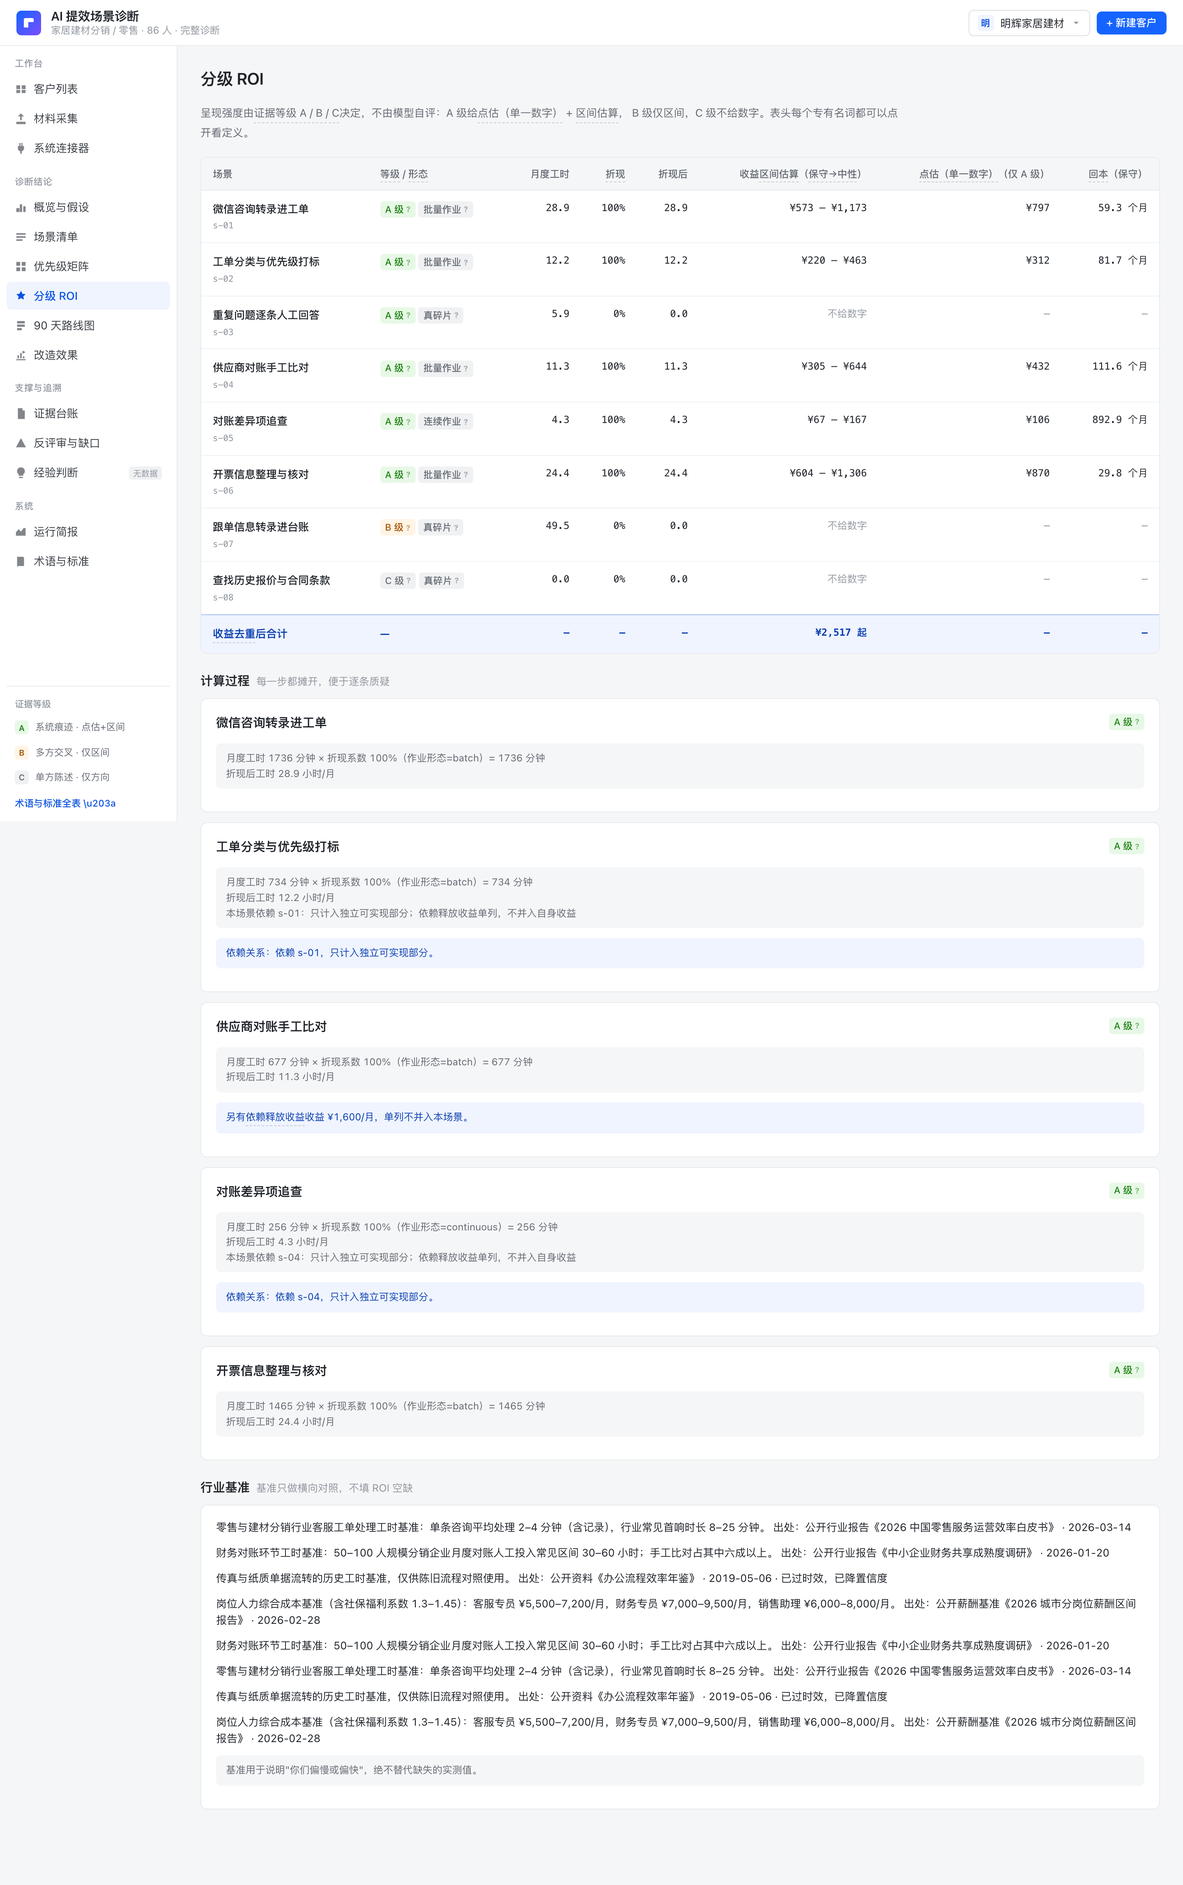
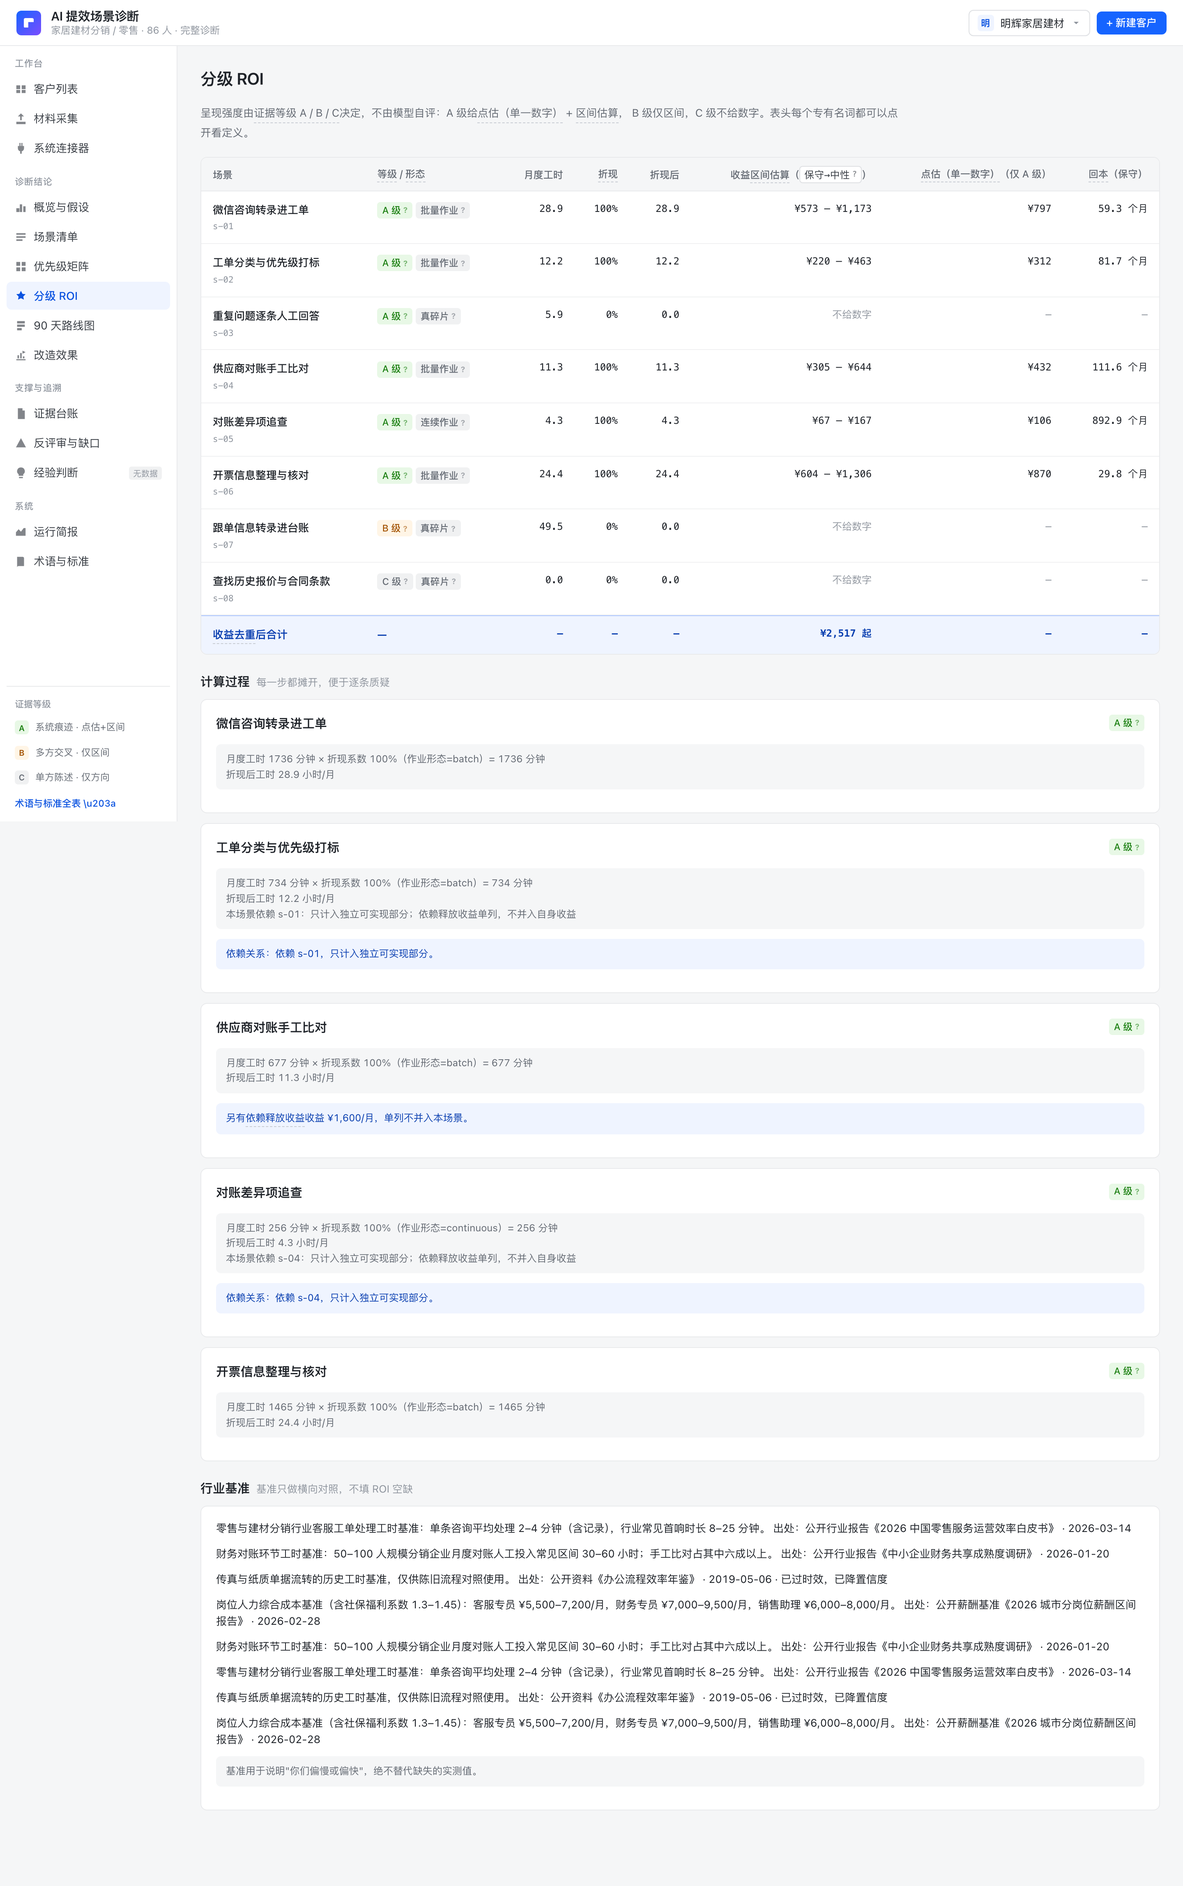
feat: 补上遗漏的两张分级标准 —— ROI 三档与反评审严重度
上一轮做了四张标准表，回头把界面上所有"带档位的东西"过了一遍，
发现还有两处只给档位、不给标准：

- **ROI 三档**：「保守 / 中性 / 乐观」不说明差在哪，读者会以为是
  三个人拍的三个数。实际差别只有一项——假设 AI 之外的配套改进带来
  多少额外增益（×1.0 / ×1.15 / ×1.35）。表里写明默认采用保守档下限，
  且乐观档只在 A 级证据下出现
- **反评审严重度**：「严重度 高」如果不说明该怎么办，等于只是吓人。
  三档各自写明「什么情况算这一档」与「该怎么办」，判定依据是
  证据类型的固有局限，不是模型的主观感受

接入点：严重度徽标、ROI 表头的「保守→中性」都可点开；
参考页从四张标准表扩到六张。

单一真值：三档系数从 roi.py 的 uplift 常量取、严重度档位从
agents._SEVERITIES 取，都有测试断言与术语表一致。
连同已有的七维权重（feasibility.DIMENSIONS），三处都不许在术语表里
另写一份数字——否则改了实现、界面继续显示旧值就是在骗人。

验证：518 个 pytest 全绿、黄金集 12/12；
浏览器实测新增 12 项（两张表可点开 / 当前档高亮 / 参考页六张 /
系数确实来自后端）全通过；既有四套浏览器用例 29 + 17 + 15 + 8 项回归全通过。

diff --git a/web/app.js b/web/app.js
@@ -98,6 +98,8 @@ async function loadGlossary() {
       workForm: d.work_form_scale,
       difficulty: d.difficulty_scale,
       delivery: d.delivery_scale,
+      tier: d.tier_scale,
+      severity: d.severity_scale,
     };
     glossary.loaded = true;
   } catch (e) {
@@ -291,6 +293,42 @@ function openScalePop(anchor, kind, key) {
         <thead><tr><th>形态 / 前提</th><th>包含内容</th></tr></thead>
         <tbody>${rows}</tbody>
       </table>
+      <button class="pop-more" data-goto-glossary>全部术语与分级标准 \u203a</button>`);
+    return;
+  }
+
+  if (kind === "tier") {
+    const rows = s.tier.map((x) => `
+      <tr class="${x.tier === key ? "is-now" : ""}">
+        <td><b>${esc(x.tier)}</b></td>
+        <td>${esc(x.criteria)}</td>
+      </tr>`).join("");
+    openPop(anchor, "ROI 三档口径差在哪", `
+      <p class="pop-plain">三档不是三个人拍的三个数。差别只有一项：假设 AI 之外的配套改进带来多少额外增益。</p>
+      <table class="scale-tbl">
+        <thead><tr><th>档位</th><th>判定口径</th></tr></thead>
+        <tbody>${rows}</tbody>
+      </table>
+      <p class="pop-eg"><b>报告采用哪一档</b>默认用保守档的下限——宁可少说，不要让客户落地后觉得被骗。</p>
+      <button class="pop-more" data-goto-glossary>全部术语与分级标准 \u203a</button>`);
+    return;
+  }
+
+  if (kind === "severity") {
+    const now = s.severity.find((x) => x.level === key);
+    const rows = s.severity.map((x) => `
+      <tr class="${x.level === key ? "is-now" : ""}">
+        <td><b>${esc(x.level)}</b></td>
+        <td>${esc(x.criteria)}</td>
+        <td>${esc(x.action)}</td>
+      </tr>`).join("");
+    openPop(anchor, "反评审严重度的判定标准", `
+      <p class="pop-plain">严重度按证据类型的固有局限判定，不是模型的主观感受。</p>
+      <table class="scale-tbl">
+        <thead><tr><th>档</th><th>什么情况算这一档</th><th>该怎么办</th></tr></thead>
+        <tbody>${rows}</tbody>
+      </table>
+      ${now ? `<p class="pop-eg"><b>「${esc(now.level)}」的应对</b>${esc(now.action)}</p>` : ""}
       <button class="pop-more" data-goto-glossary>全部术语与分级标准 \u203a</button>`);
   }
 }
@@ -573,7 +611,9 @@ async function viewRoi() {
             <th style="text-align:right">月度工时</th>
             <th style="text-align:right">${term("折现")}</th>
             <th style="text-align:right">折现后</th>
-            <th style="text-align:right">收益${term("区间")}（${term("保守档", "保守→中性")}）</th>
+            <th style="text-align:right">收益${term("区间")}（<button class="numref" data-scale="tier"
+              data-key="保守" aria-expanded="false"
+              aria-label="查看 ROI 三档口径的差别">保守→中性 <i class="bdg-q" aria-hidden="true">?</i></button>）</th>
             <th style="text-align:right">${term("点估")}（仅 A 级）</th>
             <th style="text-align:right">${term("回本周期", "回本")}（保守）</th>
           </tr></thead>
@@ -719,7 +759,9 @@ async function viewReview() {
         <div class="card">
           <div class="item-h">
             <span class="item-id">${esc(i.card_id)}</span>
-            <span class="bdg ${SEV[i.severity] || "bdg-n"}">严重度 ${esc(i.severity)}</span>
+            <button class="bdg ${SEV[i.severity] || "bdg-n"} bdg-btn" data-scale="severity"
+              data-key="${esc(i.severity)}" aria-expanded="false"
+              aria-label="查看严重度 ${esc(i.severity)} 的判定标准与应对动作">严重度 ${esc(i.severity)} <i class="bdg-q" aria-hidden="true">?</i></button>
           </div>
           <p style="margin:0 0 10px;font-size:13.5px;line-height:1.7">${esc(i.rebuttal)}</p>
           <p class="hint">处理：${esc(i.resolution)}</p>
@@ -834,6 +876,21 @@ async function viewGlossary() {
       <td class="dim">${esc(x.excludes) || "\u2014"}</td>
     </tr>`).join("");
 
+  const tierRows = s.tier.map((x) => `
+    <tr>
+      <td><b>${esc(x.tier)}</b></td>
+      <td class="r">×${x.uplift}</td>
+      <td>${esc(x.criteria)}</td>
+      <td class="dim">${esc(x.why)}</td>
+    </tr>`).join("");
+
+  const sevRows = s.severity.map((x) => `
+    <tr>
+      <td><b>${esc(x.level)}</b></td>
+      <td>${esc(x.criteria)}</td>
+      <td>${esc(x.action)}</td>
+    </tr>`).join("");
+
   return `
     ${pageHead("术语与标准", "报告里出现的每个专有名词都能在这里查到判定标准。界面上带虚线下划线的词可以直接点开看解释")}
 
@@ -848,8 +905,8 @@ async function viewGlossary() {
 
     <div class="sec">
       <div class="sec-h">
-        <h3>四张分级标准表</h3>
-        <p>报告里所有等级、分数、形态的判定口径都在这里，先看这四张表再看报告会顺很多</p>
+        <h3>六张分级标准表</h3>
+        <p>报告里所有等级、分数、档位的判定口径都在这里，先看这六张表再看报告会顺很多</p>
       </div>
 
       <div class="card">
@@ -896,6 +953,30 @@ async function viewGlossary() {
         <div class="tbl-scroll"><table class="scale-tbl scale-wide">
           <thead><tr><th>形态</th><th>前提</th><th>包含</th><th>不包含</th></tr></thead>
           <tbody>${delRows}</tbody>
+        </table></div>
+      </div>
+
+      <div class="card">
+        <div class="card-h">
+          <h3>五、ROI 三档口径</h3>
+          <p>三档不是三个人拍的三个数，差别只有一项：假设配套改进带来多少额外增益</p>
+        </div>
+        <div class="tbl-scroll"><table class="scale-tbl scale-wide">
+          <thead><tr><th>档位</th><th style="text-align:right">系数</th><th>判定口径</th><th>为什么这么定</th></tr></thead>
+          <tbody>${tierRows}</tbody>
+        </table></div>
+        <p class="hint hint-warn">报告默认用保守档的下限。乐观档只在 A 级证据下出现——
+        证据不硬时给乐观档，等于鼓励客户按最好情况做预算。</p>
+      </div>
+
+      <div class="card">
+        <div class="card-h">
+          <h3>六、反评审严重度</h3>
+          <p>按证据类型的固有局限判定，不是模型的主观感受</p>
+        </div>
+        <div class="tbl-scroll"><table class="scale-tbl scale-wide">
+          <thead><tr><th>档</th><th>什么情况算这一档</th><th>该怎么办</th></tr></thead>
+          <tbody>${sevRows}</tbody>
         </table></div>
       </div>
     </div>

diff --git a/src/aiea/glossary.py b/src/aiea/glossary.py
@@ -355,6 +355,60 @@ def difficulty_scale() -> dict[str, Any]:
     }
 
 
+def tier_scale() -> list[dict[str, Any]]:
+    """ROI 三档口径。系数从 roi.py 取，不在这里另写一份数字。
+
+    「保守 / 中性 / 乐观」如果不说明差在哪，读者会以为是三个人拍的三个数。
+    实际差别只有一项：假设 AI 之外的配套改进带来多少额外效率增益。
+    """
+    from .roi import _NEUTRAL_UPLIFT, _OPTIMISTIC_UPLIFT
+
+    return [
+        {
+            "tier": "保守",
+            "uplift": 1.0,
+            "criteria": "只计已验证的直接省时，不假设任何额外增益",
+            "why": "报告默认用这一档的下限——宁可少说，不要让客户落地后觉得被骗",
+        },
+        {
+            "tier": "中性",
+            "uplift": _NEUTRAL_UPLIFT,
+            "criteria": f"叠加 {round((_NEUTRAL_UPLIFT - 1) * 100)}% 的配套效率增益（流程顺带理顺、返工减少）",
+            "why": "改造很少只带来单点省时，但这部分增益无法事前核实，因此单列一档",
+        },
+        {
+            "tier": "乐观",
+            "uplift": _OPTIMISTIC_UPLIFT,
+            "criteria": f"叠加 {round((_OPTIMISTIC_UPLIFT - 1) * 100)}% 增益；仅 A 级证据才给这一档",
+            "why": "证据不硬时给乐观档等于鼓励客户按最好情况做预算，所以 B/C 级不出这一档",
+        },
+    ]
+
+
+def severity_scale() -> list[dict[str, Any]]:
+    """反评审严重度。判定依据是证据类型的固有局限，不是模型的主观感受。"""
+    return [
+        {
+            "level": "高",
+            "criteria": "结论所依赖的证据类型本身不足以支撑量化（B 级自述类、C 级无痕迹）",
+            "action": "落地前必须先补数据或先解决留痕，不宜据此安排投入",
+            "color": "danger",
+        },
+        {
+            "level": "中",
+            "criteria": "证据可用但推算方式有系统性偏差（如时间戳间隔含思考与等待，工时会偏高）",
+            "action": "可以推进，但要用一小批真实数据实测后回填修正",
+            "color": "warning",
+        },
+        {
+            "level": "低",
+            "criteria": "仅影响精度，不动摇结论方向",
+            "action": "记录备查即可，不阻塞落地",
+            "color": "neutral",
+        },
+    ]
+
+
 def delivery_scale() -> list[dict[str, Any]]:
     """交付形态：能拿到什么粒度的数据，就出什么形态的交付物。"""
     return [

diff --git a/tests/test_glossary.py b/tests/test_glossary.py
@@ -161,3 +161,47 @@ def test_grouped_terms_shape_for_frontend():
         assert g["group"] and g["intro"] and g["terms"]
         for t in g["terms"]:
             assert t["key"] and t["label"] and t["plain"] and t["why"]
+
+
+# ---------------------------- ROI 三档与严重度 ----------------------------
+def test_tier_scale_explains_what_differs_between_tiers():
+    """「保守/中性/乐观」不说明差在哪，读者会以为是三个人拍的三个数。"""
+    from aiea.glossary import tier_scale
+
+    scale = tier_scale()
+    assert [s["tier"] for s in scale] == ["保守", "中性", "乐观"]
+    for s in scale:
+        assert s["criteria"], f"{s['tier']} 档未写明判定口径"
+        assert s["why"], f"{s['tier']} 档未写明为什么这么定"
+    assert scale[0]["uplift"] == 1.0, "保守档不得叠加任何额外增益"
+    # 乐观档必须写明证据门槛，否则客户会拿它做预算
+    assert "A" in scale[2]["criteria"]
+
+
+def test_tier_uplifts_match_roi_module():
+    """系数只能有一处真值。术语表另写一份，改了 roi.py 界面就在骗人。"""
+    from aiea.glossary import tier_scale
+    from aiea.roi import _NEUTRAL_UPLIFT, _OPTIMISTIC_UPLIFT
+
+    scale = {s["tier"]: s for s in tier_scale()}
+    assert scale["中性"]["uplift"] == _NEUTRAL_UPLIFT
+    assert scale["乐观"]["uplift"] == _OPTIMISTIC_UPLIFT
+
+
+def test_severity_scale_states_criteria_and_action():
+    """「严重度 高」如果不说明该怎么办，等于只是吓人。"""
+    from aiea.glossary import severity_scale
+
+    scale = severity_scale()
+    assert [s["level"] for s in scale] == ["高", "中", "低"]
+    for s in scale:
+        assert s["criteria"], f"严重度 {s['level']} 未写明判定标准"
+        assert s["action"], f"严重度 {s['level']} 未写明应对动作"
+
+
+def test_severity_levels_match_agents_module():
+    """界面上的档位必须与反评审实际会产出的档位一致。"""
+    from aiea.agents import _SEVERITIES
+    from aiea.glossary import severity_scale
+
+    assert {s["level"] for s in severity_scale()} == set(_SEVERITIES)

diff --git a/tests/test_api_glossary.py b/tests/test_api_glossary.py
@@ -73,3 +73,18 @@ def test_glossary_exposes_grouped_terms(app):
     assert len(listed) == len(body["terms"]), "分组里的词数与术语总数不一致，有词漏出参考页"
     for g in body["groups"]:
         assert g["group"] and g["intro"] and g["terms"]
+
+
+def test_glossary_exposes_tier_and_severity_scales(app):
+    """ROI 三档与反评审严重度也是分级，判定标准同样要随接口下发。"""
+    body = app.get("/api/glossary").json()
+
+    tiers = body["tier_scale"]
+    assert [t["tier"] for t in tiers] == ["保守", "中性", "乐观"]
+    for t in tiers:
+        assert t["criteria"] and t["why"]
+
+    sev = body["severity_scale"]
+    assert [s["level"] for s in sev] == ["高", "中", "低"]
+    for s in sev:
+        assert s["criteria"] and s["action"], "严重度必须同时说明判定标准与应对动作"

diff --git a/src/aiea/api.py b/src/aiea/api.py
@@ -36,6 +36,8 @@ from .glossary import (
     explain,
     grade_scale,
     grouped_terms,
+    severity_scale,
+    tier_scale,
     work_form_scale,
 )
 from .intake import EVIDENCE_ROLES, list_materials, save_material
@@ -529,6 +531,8 @@ def create_app(*, root: Path | str | None = None, use_llm: bool = False) -> Fast
             "work_form_scale": work_form_scale(),
             "difficulty_scale": difficulty_scale(),
             "delivery_scale": delivery_scale(),
+            "tier_scale": tier_scale(),
+            "severity_scale": severity_scale(),
             "note": "报告里出现的每个专有名词都能在这里查到，包含判定标准与为什么值得看。",
         }
 

diff --git a/README.md b/README.md
@@ -71,7 +71,7 @@ PYTHONPATH=src .venv/bin/python -m aiea.evals     # 冻结黄金集 12 例
 | 07 反评审与缺口 | 独立视角的最强反驳 + 3 项未获取材料及其影响 |
 | 附 经验判断 | 物理隔离的专家判断区，按设计不含任何金额 |
 | 系 运行简报 | 内部指标翻译成人话；注入拦截计数；反馈入口 |
-| 系 术语与标准 | 38 个术语 + 四张分级标准表，不依赖客户数据，随时可查 |
+| 系 术语与标准 | 38 个术语 + 六张分级标准表，不依赖客户数据，随时可查 |
 
 **关键：所有数字都是算出来的，不是写死的。** 场景卡的频次、耗时、作业形态、
 证据等级、ROI 全部由 `evidence.py` / `roi.py` 从 `seed/clients/minghui/` 的原始痕迹推导——
@@ -199,16 +199,30 @@ IM 刻意声明为 C 级：**把它标成 A 级会让下游误以为能量化，
 | 正文里带虚线下划线的词 | 点开浮层：一句话解释 + 为什么值得看 |
 | `A 级` / `批量作业` / `完整诊断` 徽标 | 点开对应的整张标准表，当前那一级高亮并给例子 |
 | 难度值（如 `2.02`） | 点开七维权重表与 1–5 分的含义 |
+| `严重度 高` 徽标 | 点开三档的判定标准**与该怎么办** |
+| ROI 表头的 `保守→中性` | 点开三档口径差在哪 |
 | 侧栏左下角等级图例 | 任一级都能点开判定标准 |
-| 「术语与标准」页 | 38 个术语按 8 个主题分组 + 四张标准表全文，支持搜索 |
+| 「术语与标准」页 | 38 个术语按 8 个主题分组 + 六张标准表全文，支持搜索 |
 
-四张标准表分别是：证据等级 A/B/C（判定标准 / 能给什么结论 / 例子）、
-作业形态与折现系数、落地难度七维权重、交付形态三档的包含与不包含。
+六张标准表：
+
+| # | 标准表 | 关键在于说清 |
+|---|---|---|
+| 一 | 证据等级 A/B/C | 什么材料够这一级、这一级**能给什么结论**、例子 |
+| 二 | 作业形态与折现 | 判定标准与折现系数（真碎片 0%） |
+| 三 | 落地难度七维 | 每维看什么、权重、1–5 分的含义 |
+| 四 | 交付形态 | 前提、包含什么、**不包含什么** |
+| 五 | ROI 三档口径 | 三档差在哪、默认采用哪一档 |
+| 六 | 反评审严重度 | 什么情况算这一档、**该怎么办** |
+
 每张都写明**判定标准**和**这一级能给什么、不能给什么**——
-「B 级」如果不说明「只给区间不给点估」，等级本身对用户没有意义。
+「B 级」如果不说明「只给区间不给点估」，等级本身对用户没有意义；
+同理「严重度 高」如果不说明该怎么办，就只是在吓人。
 
-分级标准的数字不在前端另写一份：七维权重直接取自 `feasibility.DIMENSIONS`，
-有测试断言两边一致，否则界面会在权重改动后悄悄骗人。
+分级标准的数字只有一处真值，不在前端另写一份：七维权重取自
+`feasibility.DIMENSIONS`，ROI 三档系数取自 `roi.py` 的 uplift 常量，
+严重度档位取自 `agents._SEVERITIES`。三者都有测试断言两边一致，
+否则改了实现、界面会继续显示旧数字——那是在骗人。
 
 术语解释拉取失败时降级为纯文本，不阻断报告本身——查词是辅助，不该成为单点故障。
 
@@ -271,7 +285,7 @@ IM 刻意声明为 C 级：**把它标成 A 级会让下游误以为能量化，
 | `connectors/vendors.py` | 19 个厂商模板：钉钉/飞书/企微/金蝶/Zendesk/有赞… | §4 |
 | `connector_intake.py` | L1 拉取转 ParsedMaterial + L0/L1 交叉互校 | §4、§3.1 |
 | `measure.py` | 效果衡量：无改造前基线一律不给改善率 | §19.4、§9.3 |
-| `glossary.py` | 38 个术语 + 四张分级标准表；内部术语登记为禁上界面 | §12.1 |
+| `glossary.py` | 38 个术语 + 六张分级标准表；内部术语登记为禁上界面 | §12.1 |
 
 ## 工程纪律（测试里锁死的部分）
 
@@ -294,7 +308,9 @@ IM 刻意声明为 C 级：**把它标成 A 级会让下游误以为能量化，
 - **无改造前基线不给改善率**；经营结果指标一律拒收
 - 界面上每个 `term("…")` 的键必须在术语表中存在（静态扫描，拼错即红）
 - 内部实现词不得出现在界面文案里（只查会被用户读到的文案，不查 `m.xxx` 这类字段名）
-- 术语表里的七维权重必须与 `feasibility.DIMENSIONS` 一致，否则界面在骗人
+- 分级标准只有一处真值：七维权重取自 `feasibility.DIMENSIONS`、ROI 三档系数取自
+  `roi.py` 的 uplift 常量、严重度档位取自 `agents._SEVERITIES`，三者都有测试
+  断言与术语表一致——否则改了实现、界面继续显示旧数字，那是在骗人
 - 术语分组必须覆盖全部术语且不重复——漏一个词，那个词永远不会出现在参考页
 - `[hidden]` 全局强制 `display: none !important`（同一个坑踩过三次，见下）
 - toast 必须是 live region；跳转链接不得用 `display:none` 隐藏（否则键盘聚焦不到）
